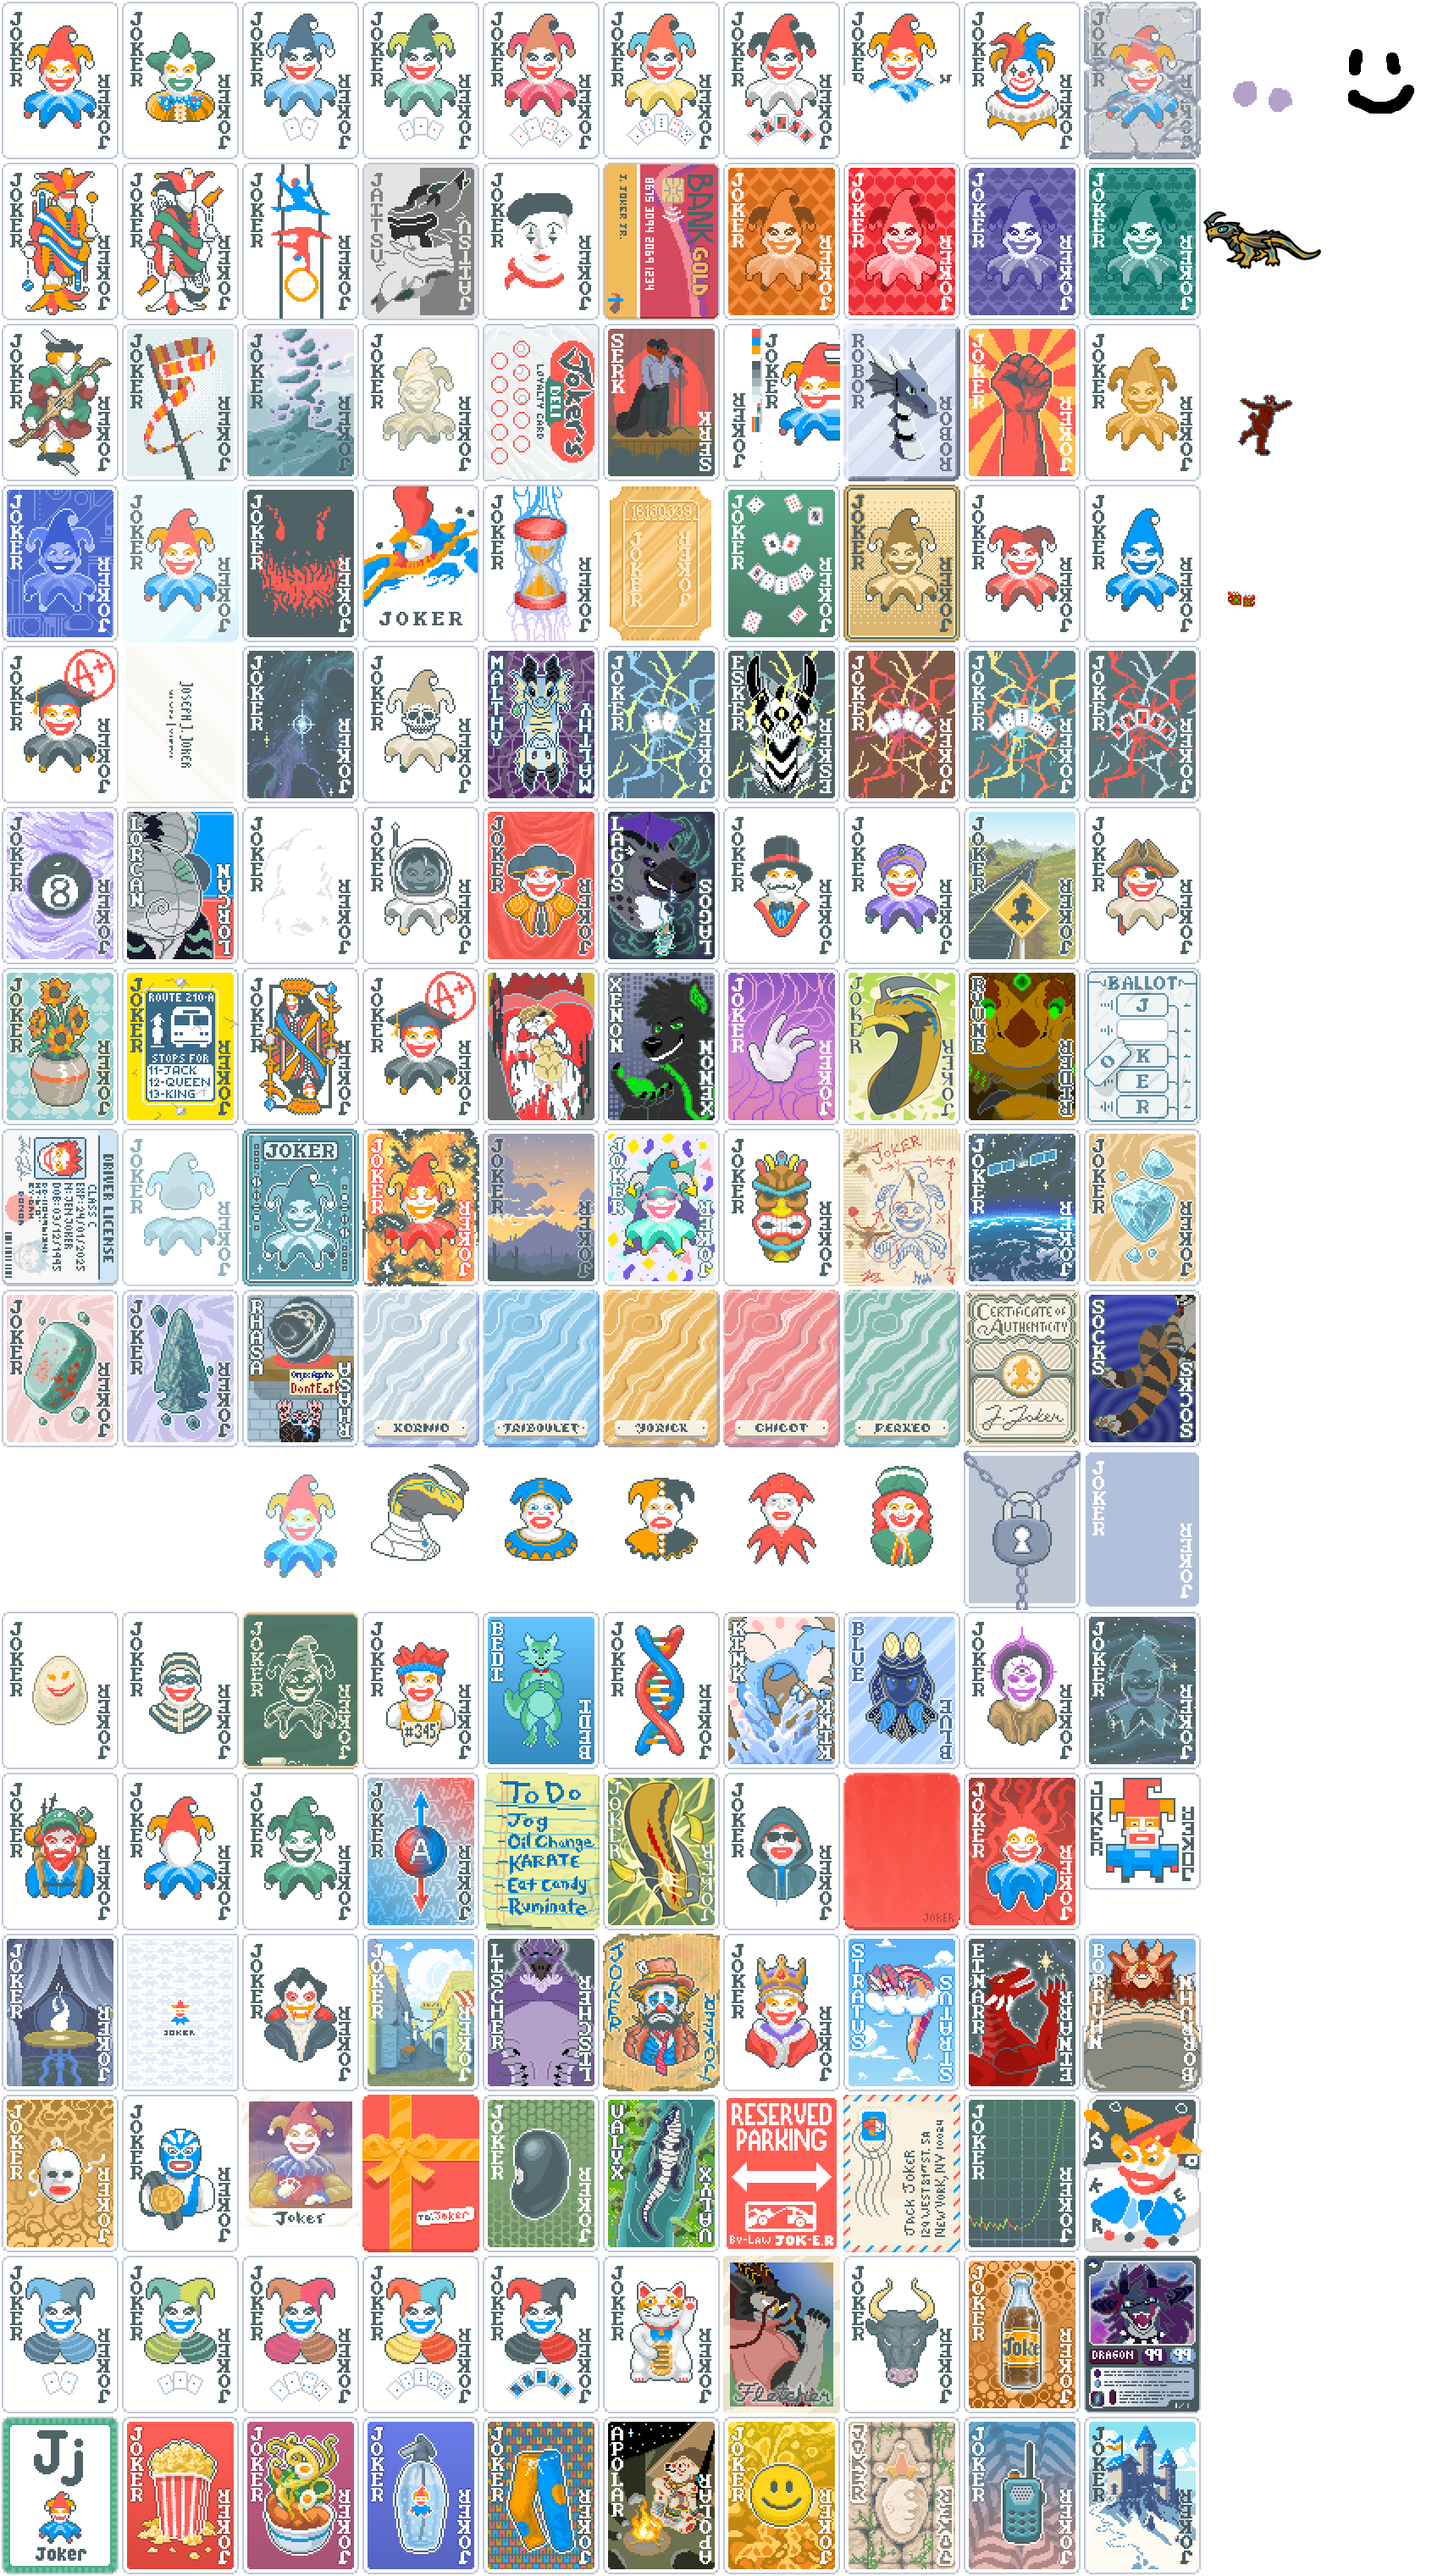
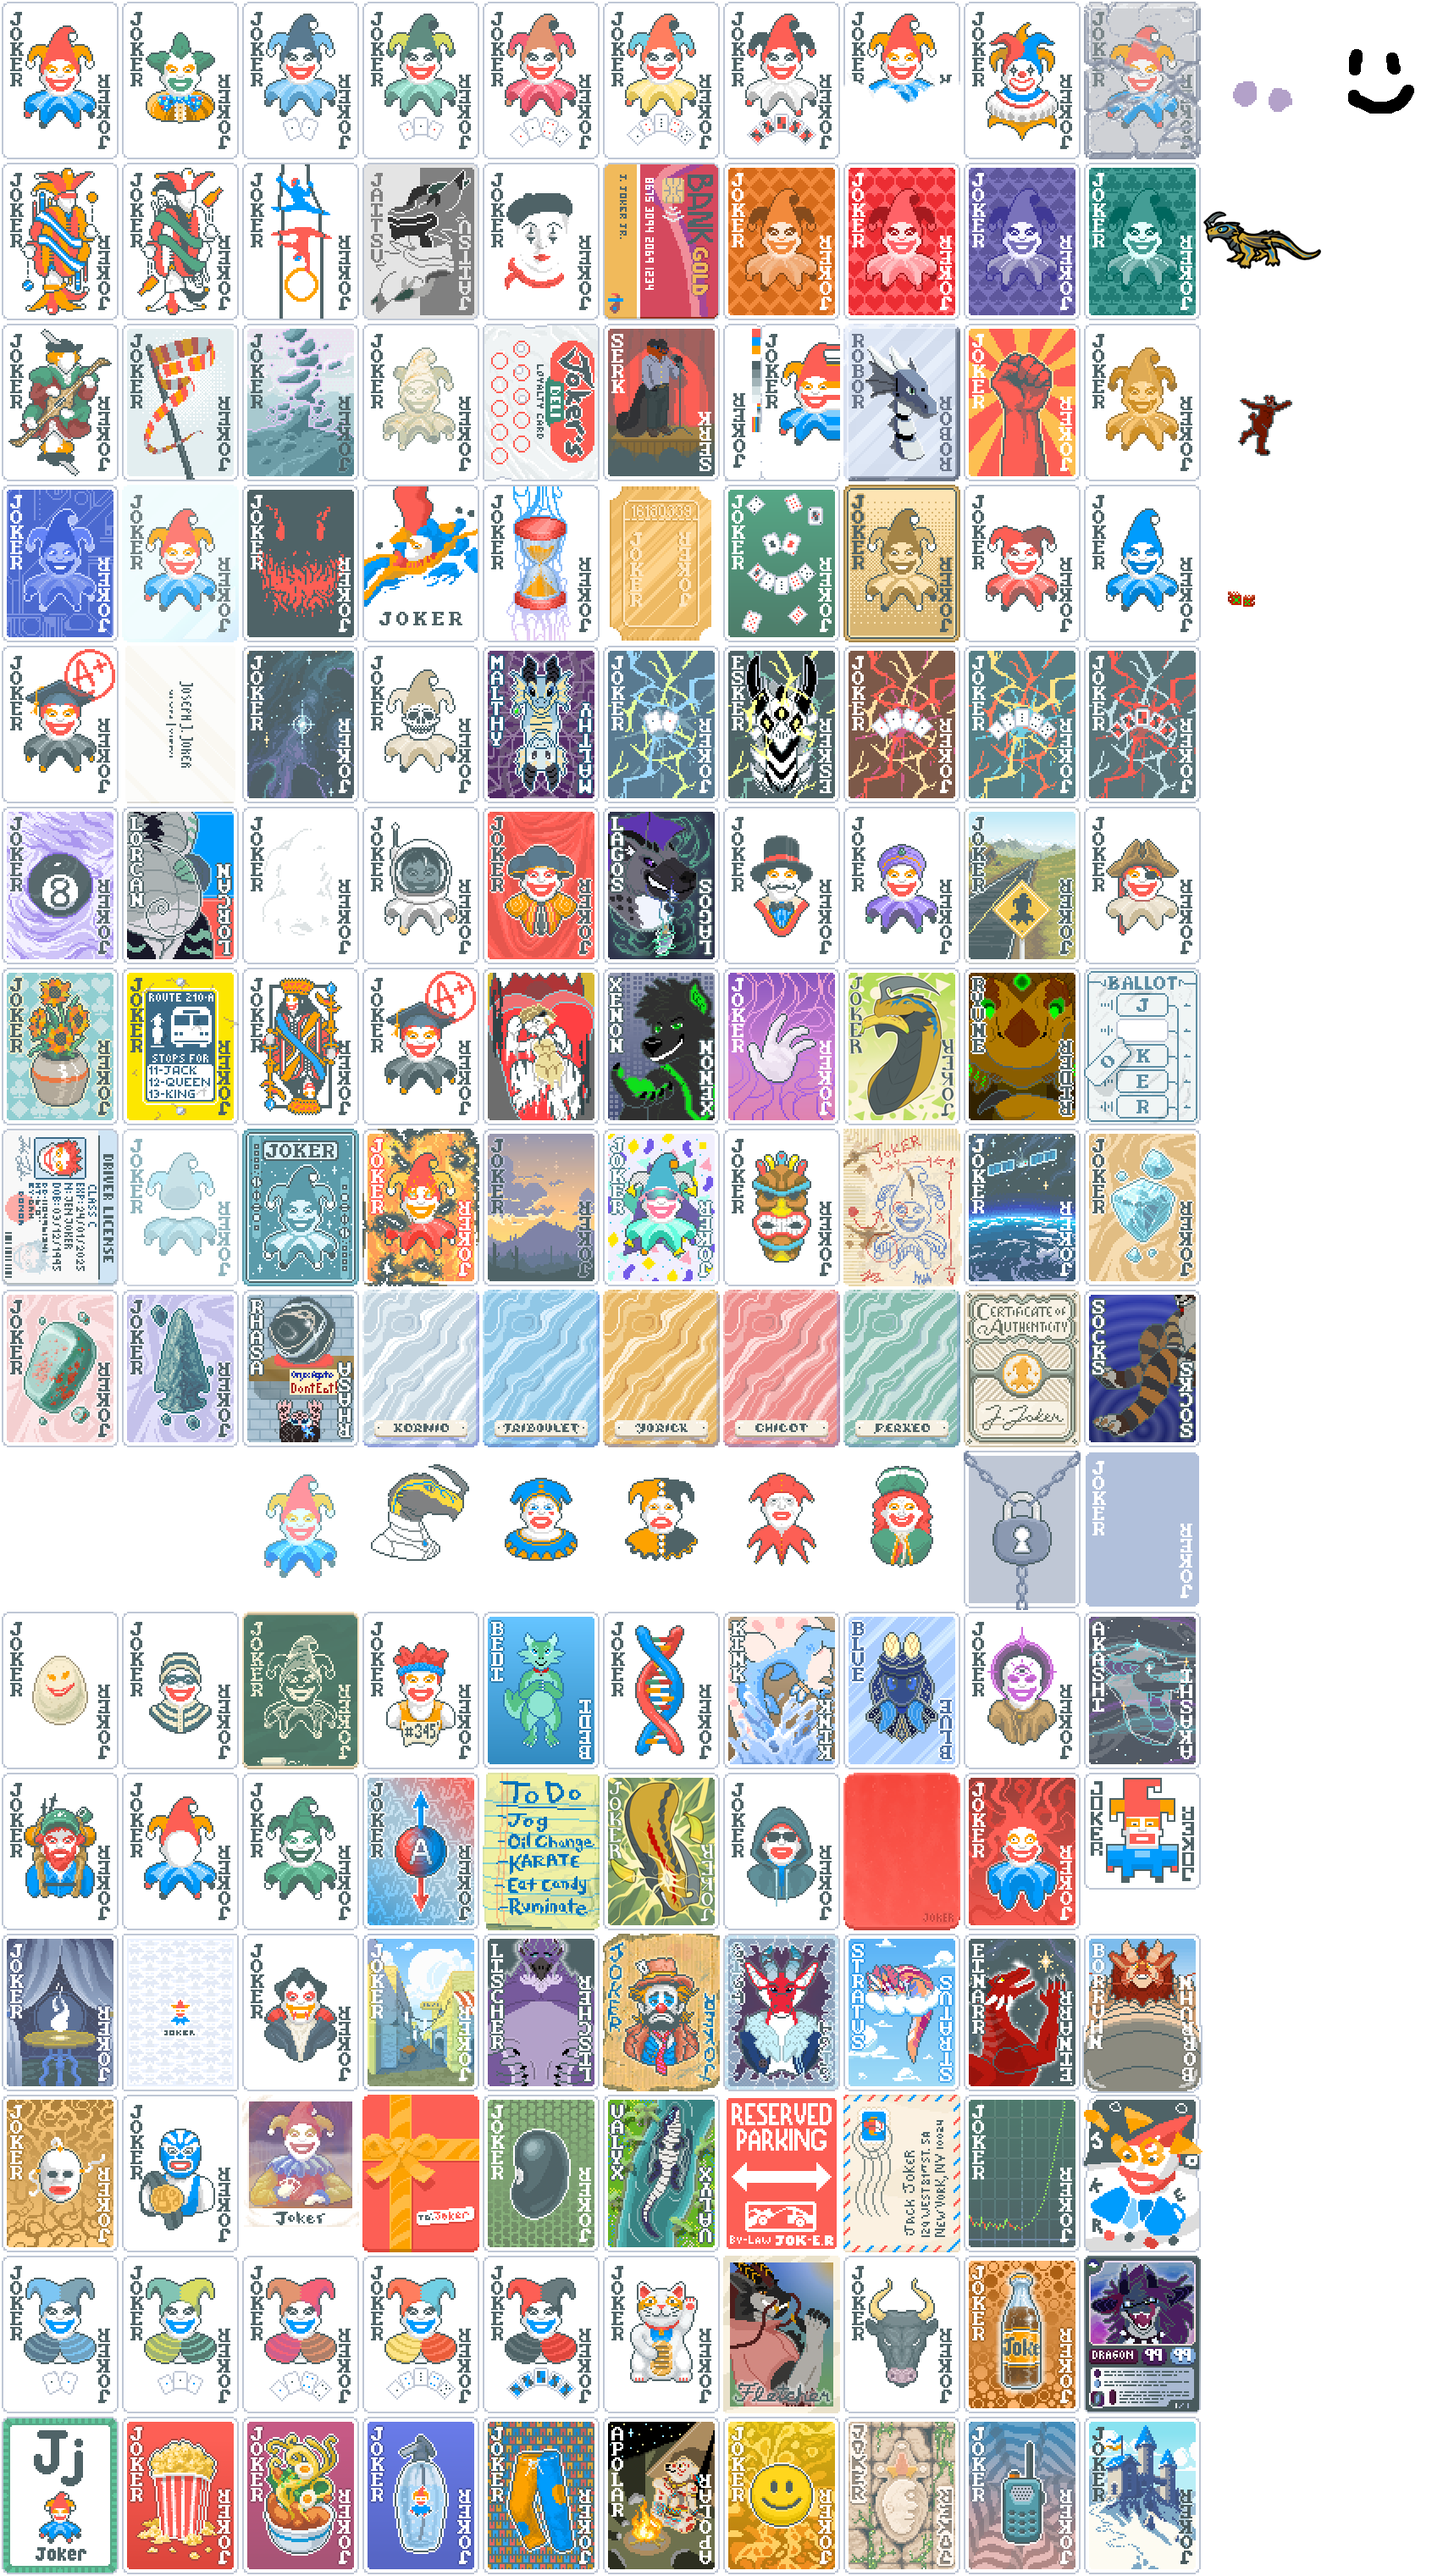
Change Baron

Changed region(s): [[0.7465, 0.625, 0.8398, 0.6875], [0.4977, 0.75, 0.591, 0.8125]]

diff --git a/ReadMe.md b/ReadMe.md
@@ -16,7 +16,7 @@ Version 0.0.5a
 - Diamonds: Jack, Queen, King, Ace
 - Spades: Jack, Queen, King, Ace
 
-## Jokers: (26/150)
+## Jokers: (27/150)
 - Baseball Card
 - Blue Joker
 - Bootstraps
@@ -25,6 +25,7 @@ Version 0.0.5a
 - Cavendish
 - Ceremonial Dagger
 - Cloud 9
+- Constellation
 - Erosion
 - Fibonacci
 - Gros Michel
